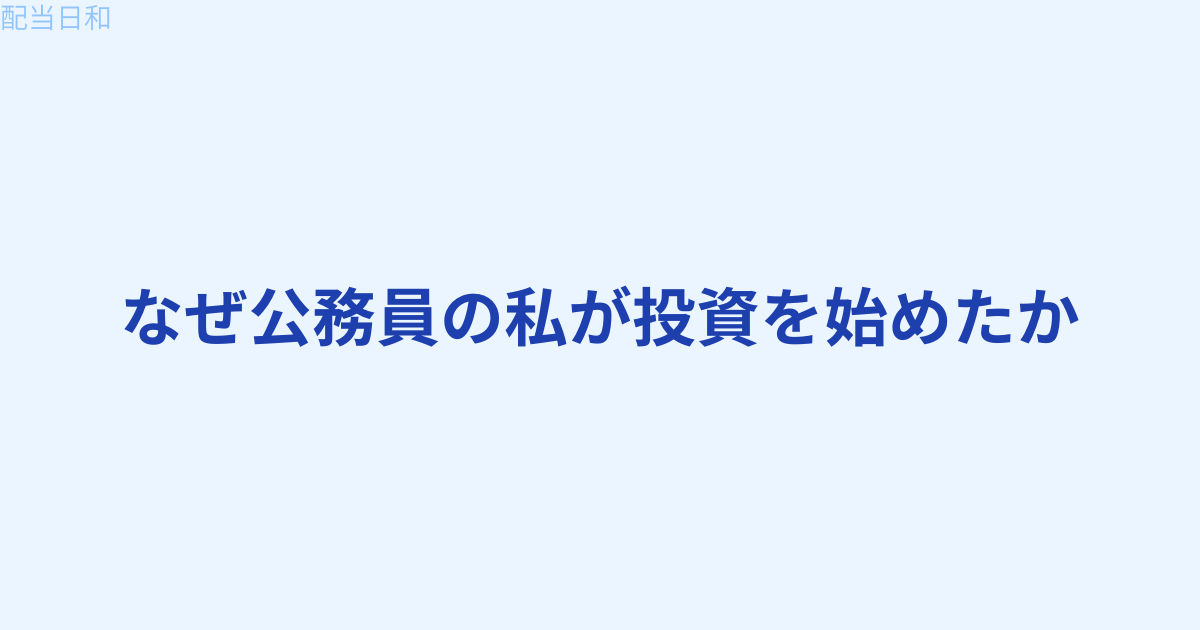
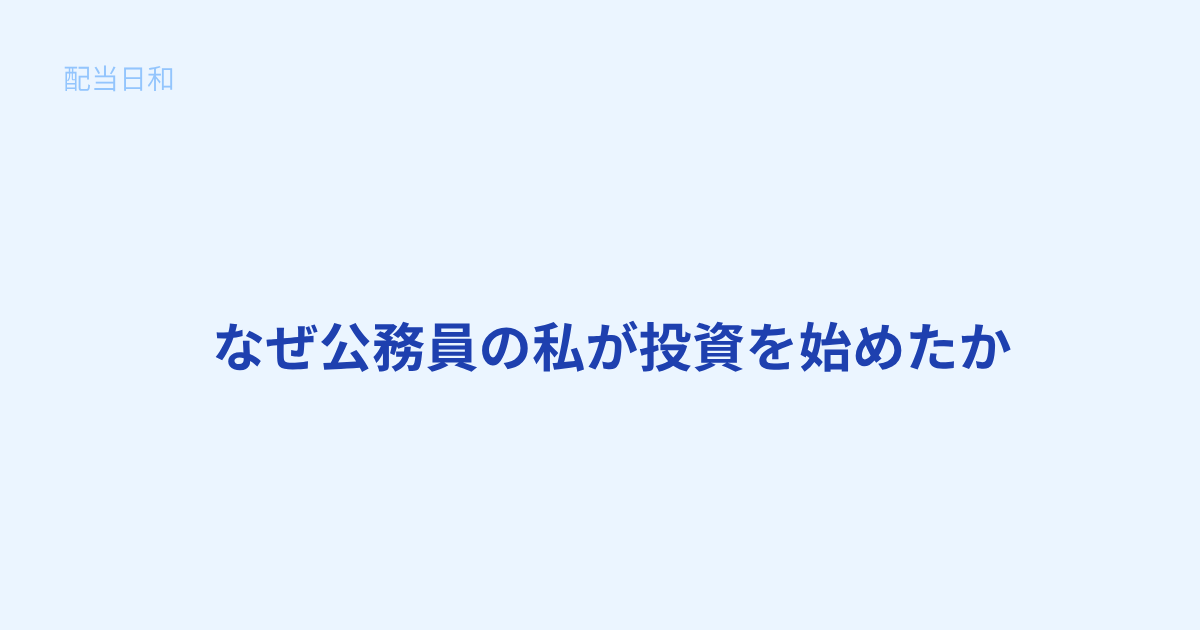
Add hero images for 6 articles
追加した画像と対応記事:
- why-i-started-investing.png → なぜ公務員の私が投資を始めたか
- to-my-past-self-who-feared-investing.png → 投資が怖いと思っていたあの頃の私へ
- how-to-open-brokerage-account-sbi-rakuten.png → 証券口座の開き方【SBI・楽天比較】
- how-to-start-monthly-investing-10000-yen.png → 月1万円から始める積立投資のやり方
- how-to-buy-high-dividend-stocks-with-nisa.png → NISAで高配当株を買う方法
- what-is-sector-diversification-for-dividend-investing.png → セクター分散とは？

Changed region(s): [[0.0925, 0.4524, 0.8942, 0.6032], [0.0308, 0.0905, 0.1542, 0.1508], [0.0, 0.0, 0.0925, 0.0603]]

diff --git a/src/content/blog/セクター分散とは？高配当株投資で失敗しないための考え方.md b/src/content/blog/セクター分散とは？高配当株投資で失敗しないための考え方.md
@@ -2,7 +2,7 @@
 title: 'セクター分散とは？高配当株投資で失敗しないための考え方'
 description: '分散しているつもりで、できていなかった。失敗談も含めて、配当を安定して受け取り続けるためのセクター分散の考え方を正直に書きます。'
 pubDate: '2026-04-22'
-heroImage: '../../assets/blog-placeholder-4.jpg'
+heroImage: '../../assets/what-is-sector-diversification-for-dividend-investing.png'
 ---
 
 *— 配当を"安定して受け取り続ける"ために —*

diff --git a/src/content/blog/投資が怖いと思っていたあの頃の私へ.md b/src/content/blog/投資が怖いと思っていたあの頃の私へ.md
@@ -2,7 +2,7 @@
 title: '投資が怖いと思っていた、あの頃の私へ'
 description: '「株は一部のプロだけが勝てる世界」と本気で信じていた私が、それでも投資を始めた理由。過去の自分に語りかけるように書きました。'
 pubDate: '2026-04-22'
-heroImage: '../../assets/blog-placeholder-1.jpg'
+heroImage: '../../assets/to-my-past-self-who-feared-investing.png'
 ---
 
 「株式投資で一発逆転」——そんな都合のいい未来を夢見たり。

diff --git a/src/content/blog/月1万円から始める積立投資のやり方.md b/src/content/blog/月1万円から始める積立投資のやり方.md
@@ -2,7 +2,7 @@
 title: '月1万円から始める積立投資のやり方'
 description: '怖いなら月1万円でいい。小さく始めて、長く続けることが最大の武器になる。コロナショックを経験した公務員投資家が、積立投資の本質を語ります。'
 pubDate: '2026-04-22'
-heroImage: '../../assets/blog-placeholder-4.jpg'
+heroImage: '../../assets/how-to-start-monthly-investing-10000-yen.png'
 ---
 
 *— 小さく始めて、大きな差をつける —*

diff --git a/src/content/blog/NISAで高配当株を買う方法.md b/src/content/blog/NISAで高配当株を買う方法.md
@@ -2,7 +2,7 @@
 title: 'NISAで高配当株を買う方法'
 description: '資産も増やす。でも「使えるお金」も増やす。インデックス投資だけでは埋まらなかった違和感を、新NISAの高配当株投資が解決してくれた話。'
 pubDate: '2026-04-22'
-heroImage: '../../assets/blog-placeholder-5.jpg'
+heroImage: '../../assets/how-to-buy-high-dividend-stocks-with-nisa.png'
 ---
 
 *— 資産も増やす。でも「使えるお金」も増やす —*

diff --git a/src/content/blog/証券口座の開き方【SBI・楽天比較】.md b/src/content/blog/証券口座の開き方【SBI・楽天比較】.md
@@ -2,7 +2,7 @@
 title: '証券口座の開き方【SBI・楽天比較】'
 description: '迷わず選んで、すぐに始めるために。実際に両方使っている公務員投資家が、SBI証券と楽天証券をリアルに比較します。'
 pubDate: '2026-04-21'
-heroImage: '../../assets/blog-placeholder-2.jpg'
+heroImage: '../../assets/how-to-open-brokerage-account-sbi-rakuten.png'
 ---
 
 *— 迷わず選んで、すぐに始めるために —*
